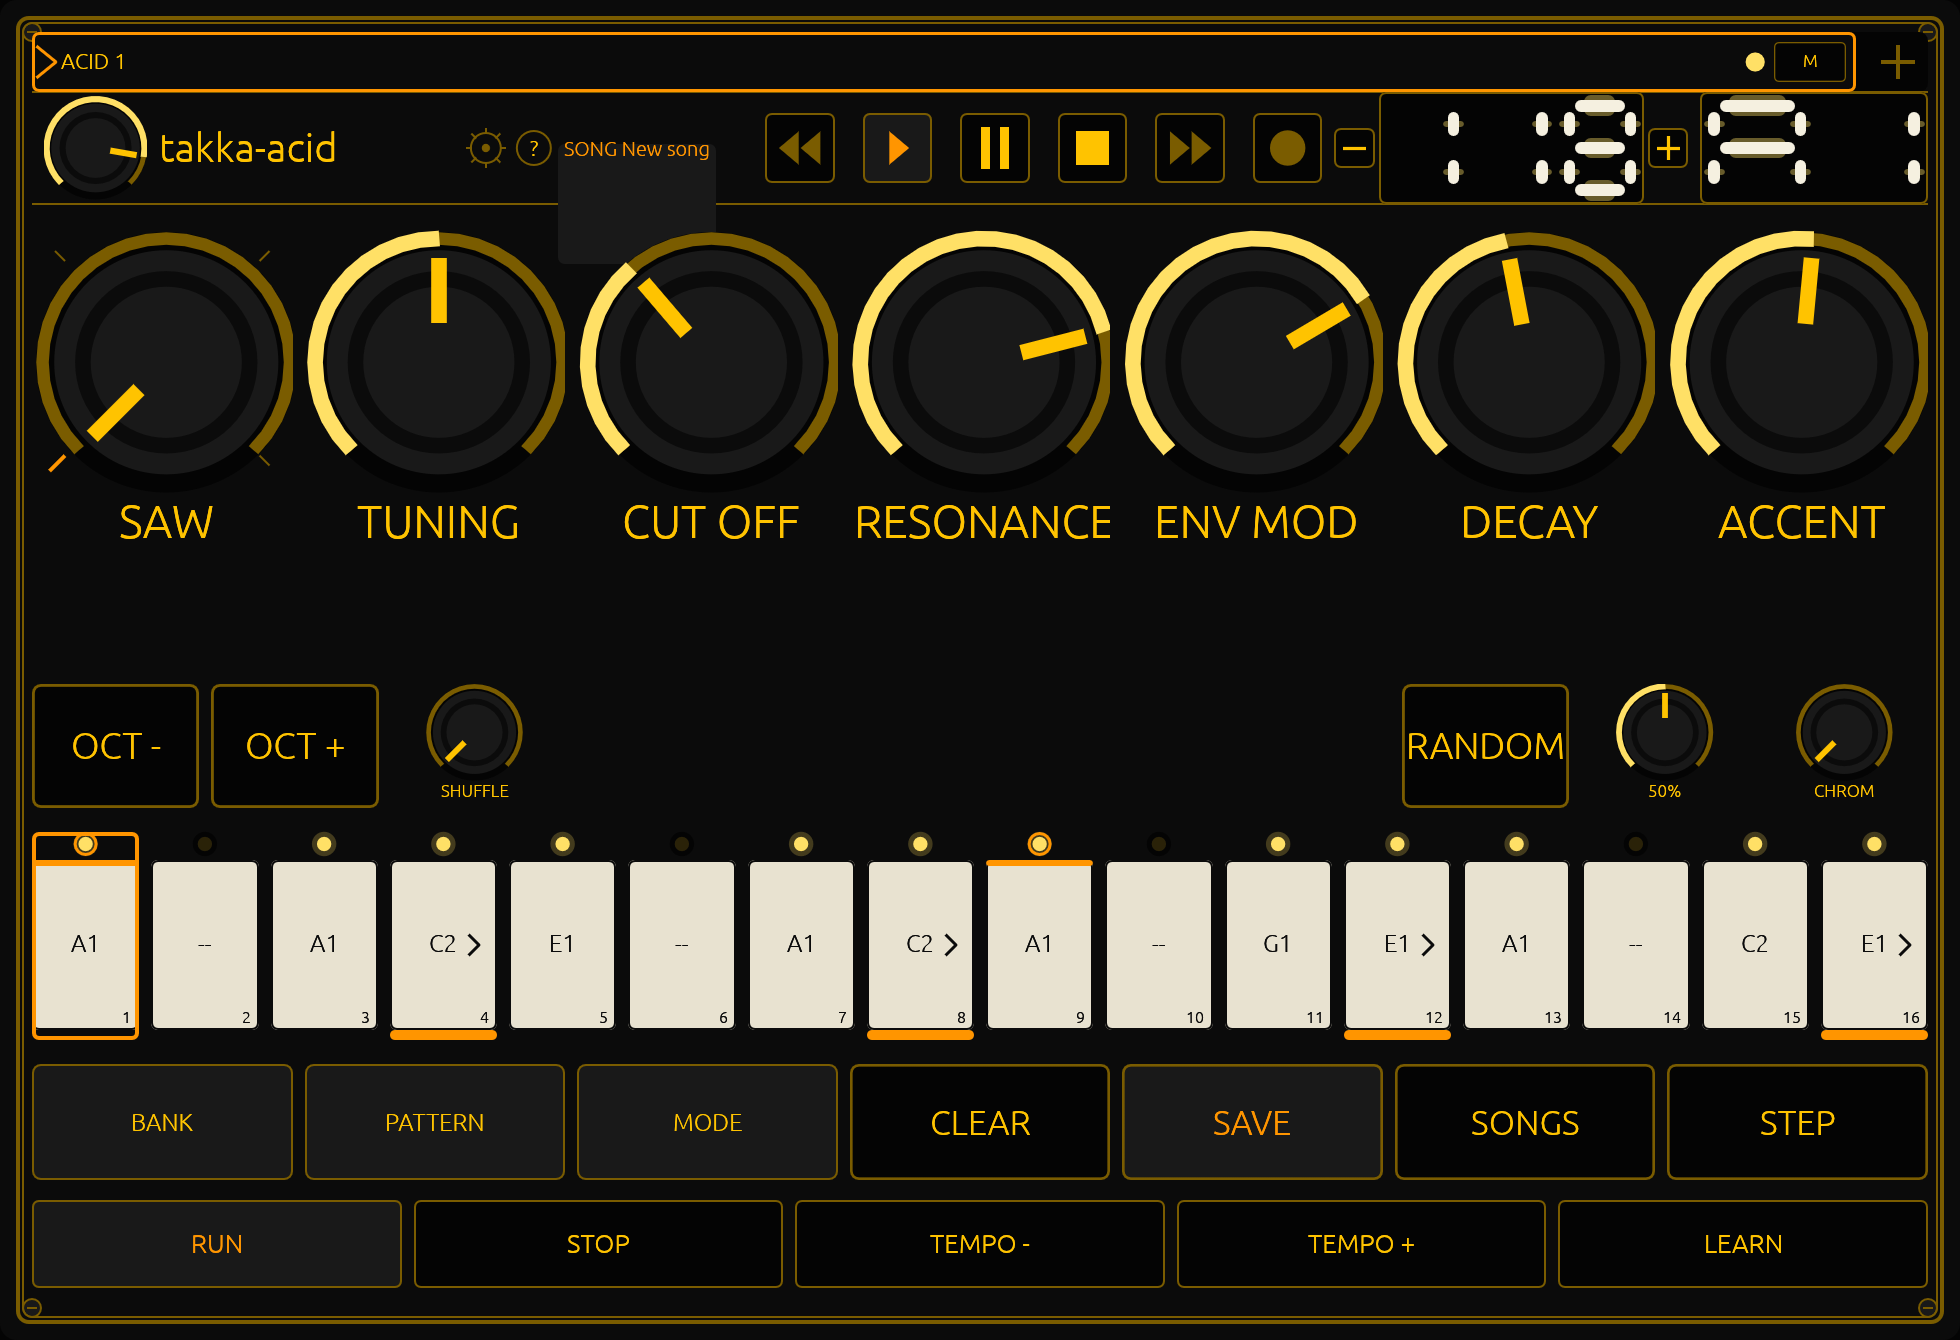
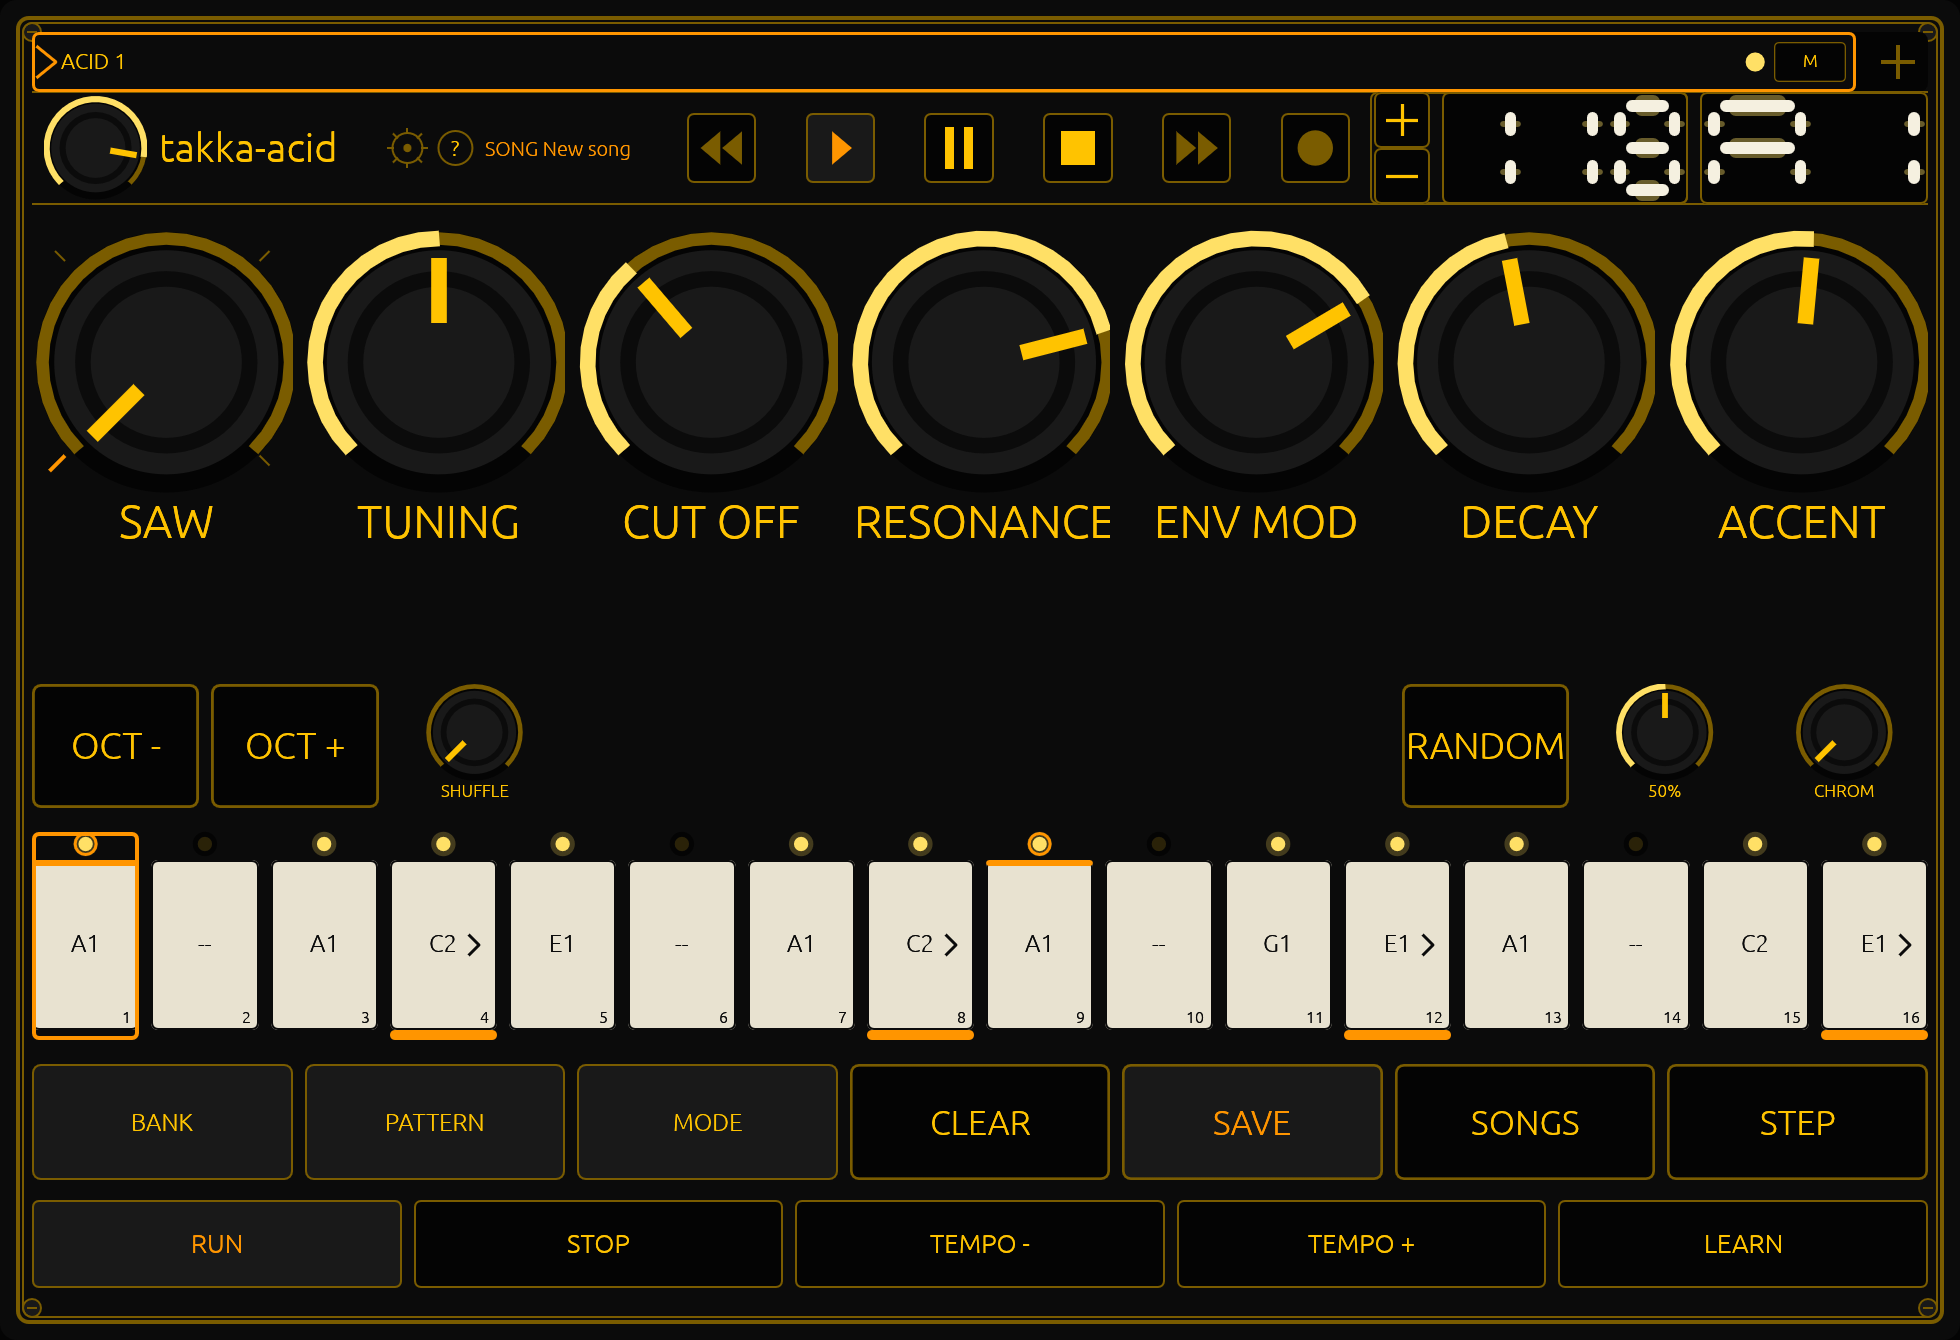
feat(panel): the cluster goes further left, and the wells get a test that asks the right question
The player's note taken: the wordmark's corner was still wider than the word in it, so the settings, help and title floated away
from the logo. `BRAND_WIDTH` is 1.95 band-heights now and the three follow immediately.

And the tempo digits: **they were never missing.** A seven-segment display paints `Shape::Rect` bars, not text, so the test I wrote
to prove "nothing is painted in that well" was asking the wrong question — it passed on a well full of bars. `tests/displays_live`
now counts the bars inside each well, and both wells pass with more than four. The apparent emptiness was me reading a
112-pixel-tall crop of a 1960-pixel-wide band.

The lesson is worth the file it is written in: a test that looks for the wrong *kind* of shape is worse than no test, because it
reports success. Both wells are covered now, so a future change that stops painting either one fails loudly.

The three screenshots are retaken at 1960 x 1340 on display :90 in the new order.

Changed region(s): [[0.1867, 0.0612, 0.8714, 0.153]]

diff --git a/rust/crates/acid-app/tests/displays_live.rs b/rust/crates/acid-app/tests/displays_live.rs
@@ -1,0 +1,70 @@
+//! The tempo's digits: the well must actually have a number in it. This exists because the number silently vanished in round
+//! 3a and only a screenshot noticed — a test that asserts the text is *there* would have failed loudly.
+
+use acid_app::state::SharedState;
+use acid_app::ui::layout::layout;
+use acid_app::ui::{PanelState, draw_panel, panel};
+use eframe::egui::{Context, Pos2, RawInput, Rect, Shape, vec2};
+
+fn screen() -> Rect {
+    Rect::from_min_size(Pos2::ZERO, vec2(980.0, 670.0))
+}
+
+/// Every painted bar and string, with where it was put. A seven-segment display paints **rects**, not text: a test that looks
+/// for text in a display well is asking the wrong question — the first version of this file did, and passed a blank well.
+fn texts(ctx: &Context, panel: &mut PanelState, shared: &SharedState) -> Vec<(Pos2, String)> {
+    fn walk(shape: &Shape, out: &mut Vec<(Pos2, String)>) {
+        match shape {
+            Shape::Text(text) => out.push((text.pos, text.galley.text().to_string())),
+            Shape::Rect(rect) => out.push((rect.rect.center(), "bar".to_string())),
+            Shape::Vec(shapes) => shapes.iter().for_each(|shape| walk(shape, out)),
+            _ => {}
+        }
+    }
+    let input = RawInput {
+        screen_rect: Some(screen()),
+        ..Default::default()
+    };
+    let mut output = ctx.run_ui(input, |ui| draw_panel(panel, shared, ui));
+    output.textures_delta.clear();
+    let mut out = Vec::new();
+    for clipped in &output.shapes {
+        walk(&clipped.shape, &mut out);
+    }
+    out
+}
+
+#[test]
+fn the_tempo_well_holds_a_number() {
+    let shared = SharedState::new();
+    let mut panel = PanelState::default();
+    let ctx = Context::default();
+    let top = layout(screen()).top;
+    let well = panel::tempo_display_rect(top);
+
+    let said = texts(&ctx, &mut panel, &shared);
+    let inside: Vec<&(Pos2, String)> = said.iter().filter(|(at, _)| well.contains(*at)).collect();
+    let bars = inside.iter().filter(|(_, what)| what == "bar").count();
+    assert!(
+        bars > 4,
+        "the tempo well at {well:?} holds {bars} bars; the whole band painted: {said:?}"
+    );
+}
+
+#[test]
+fn the_pattern_well_holds_its_name() {
+    let shared = SharedState::new();
+    let mut panel = PanelState::default();
+    let ctx = Context::default();
+    let top = layout(screen()).top;
+    let well = panel::pattern_display_rect(top);
+    let said = texts(&ctx, &mut panel, &shared);
+    let bars = said
+        .iter()
+        .filter(|(at, what)| well.contains(*at) && what == "bar")
+        .count();
+    assert!(
+        bars > 4,
+        "the pattern well at {well:?} holds {bars} bars; painted: {said:?}"
+    );
+}

diff --git a/rust/crates/acid-app/src/ui/panel.rs b/rust/crates/acid-app/src/ui/panel.rs
@@ -48,7 +48,7 @@ pub fn volume_knob_rect(top: Rect) -> Rect {
 /// How wide the wordmark's corner is, as a multiple of the band's height. The wordmark is one constant word at one size, so
 /// this is *its* width and not a share of the band: a fraction left a corner wider than the word in it, and the player saw the
 /// gap as space between the logo and everything else.
-const BRAND_WIDTH: f32 = 2.15;
+const BRAND_WIDTH: f32 = 1.95;
 /// How much of the band the session name's corridor takes, measured from the wordmark's corner. Fixed, not fitted to the
 /// name: a corridor that grew with its contents would move the deck every time a song was named, and the fit inside a fixed
 /// corridor is what the tooltip exists to complete.
